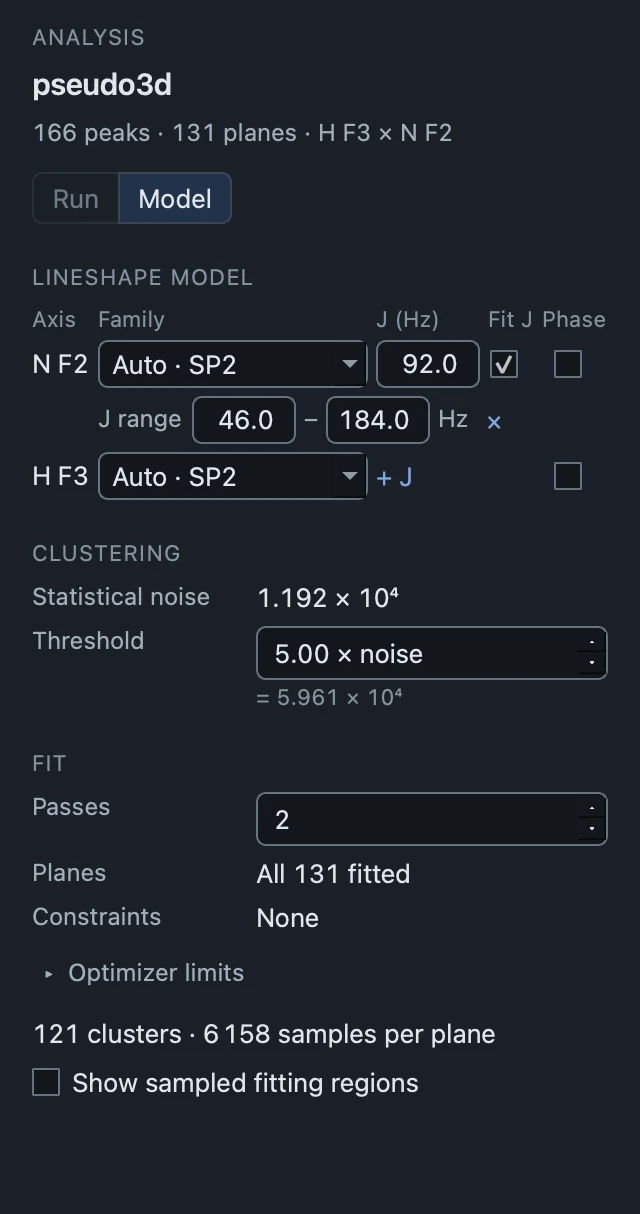
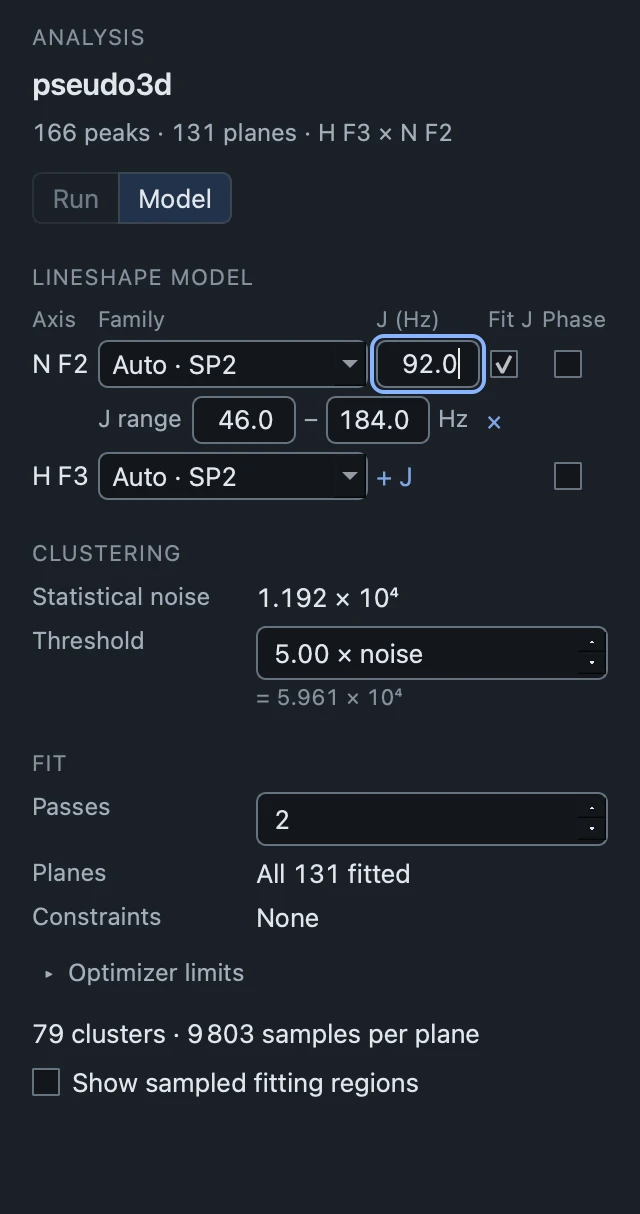
W3 record: refresh the doublet figures after merging main (#215)
Rerun natively after merging main at 47e0d1b. Layout, focus, messages and
marks are unchanged; with W2c a doublet's region spans its J range, so the
doublet states prepare 79 clusters instead of 121. Refresh the four figures
that show a doublet, the measurements, and say so in the record.

Changed region(s): [[0.0625, 0.8229, 0.75, 0.8839], [0.5625, 0.2743, 0.7812, 0.3353]]

diff --git a/docs/validation/gui-run-model-pages.md b/docs/validation/gui-run-model-pages.md
@@ -10,8 +10,9 @@ Sizes are Qt logical pixels. The decision and the element inventory are in
 
 ## How it was run
 
-- **Code:** branch `dev/w3-layout-eval-dacf8d` at the commit that adds this record,
-  with the two-axis review fixes. PySide6/Qt 6.10.1, Fusion style.
+- **Code:** branch `dev/w3-layout-eval-dacf8d` with the two-axis review fixes,
+  rerun after merging `main` at 47e0d1b (W2c, W5 and the #229 test fix).
+  PySide6/Qt 6.10.1, Fusion style.
 - **Machine:** macOS 27.2.1 on Apple silicon, built-in Retina display, DPR 2.0.
 - **Tool:** `uv run python tools/capture_run_model_pages.py --output <dir>` (native
   Cocoa, both appearances), and again with `--body-px 17 --no-fit` for a large
@@ -36,6 +37,11 @@ Sizes are Qt logical pixels. The decision and the element inventory are in
 | Table width needed: singlets / with a doublet | 240 / 259 | 274 / 294 |
 | Sideways scrolling, clipped labels (every capture) | none | none |
 | Planes row bottom, worst case (invalid range) / fold at 1160×720 | 497 / 607 | 551 / 607 |
+
+With the ¹⁵N doublet in place, the preparation line reads 79 clusters ·
+9 803 samples per plane instead of 121 · 6 158. Since W2c a doublet's region spans
+its J range, here up to 184 Hz, which joins neighbouring clusters. The figures with
+a doublet show this; the layout is unchanged.
 
 Every Model setting down to Planes is above the fold in every capture, at every
 size and at both fonts. When an entry is invalid, Fit is disabled and its tooltip
